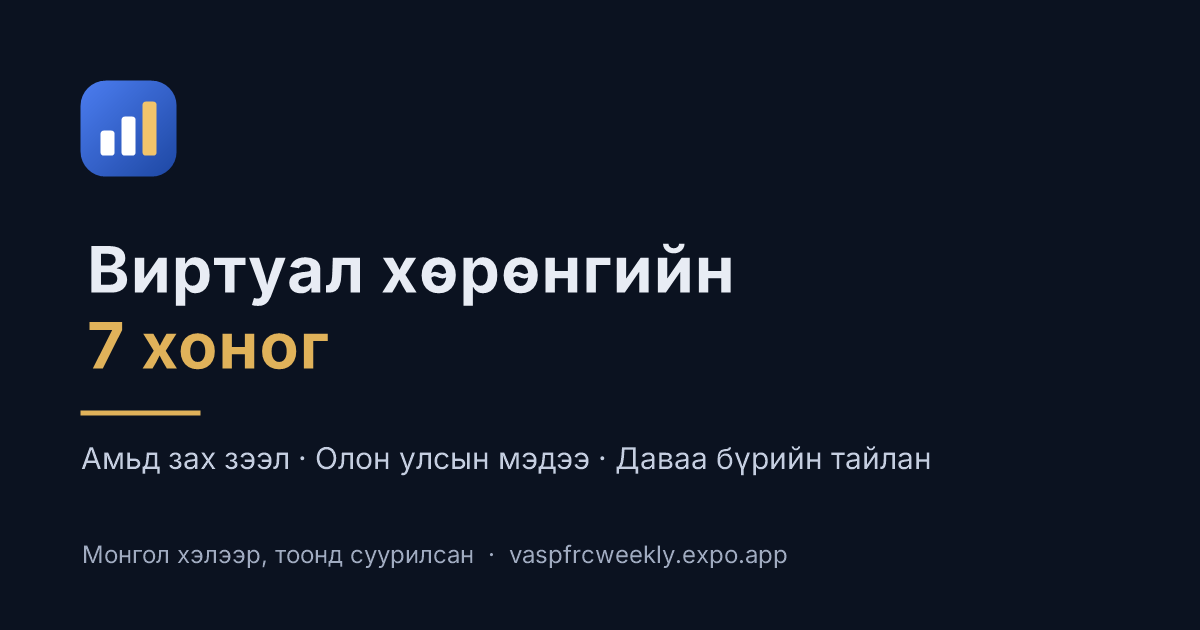
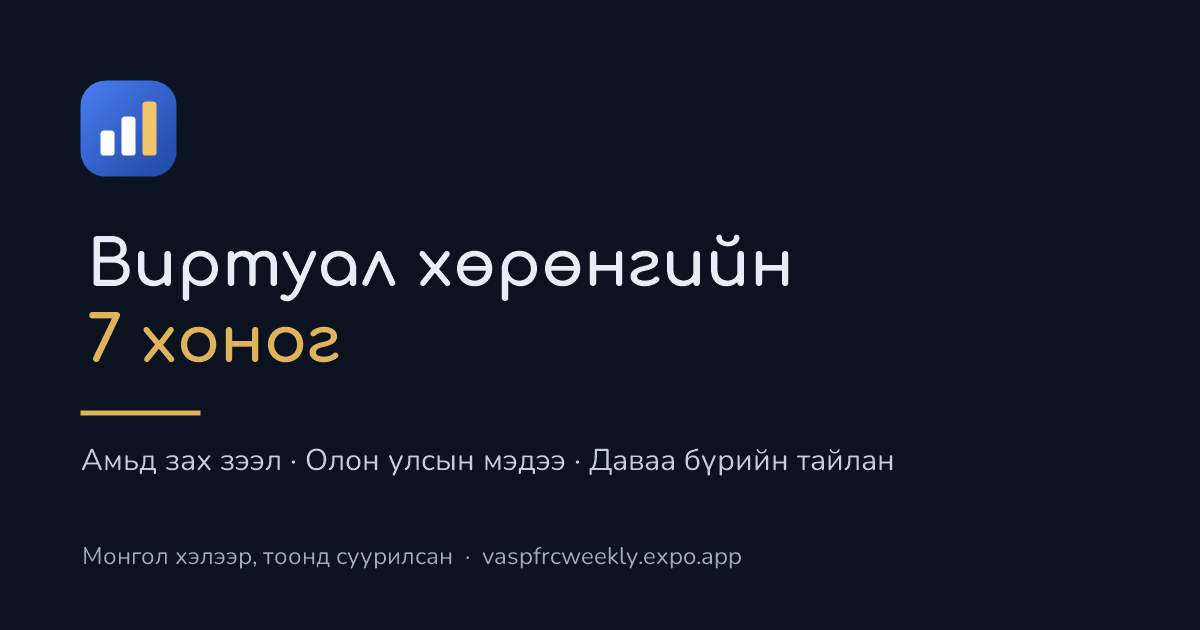
Fonts: Nunito for body, Comfortaa for headings (replace Inter)
- Nunito 400/600/700/800: body text, menu, buttons, numbers (KPI uses 800)
- Comfortaa 400/600/700: hero, h1-h3, logo/department name, research stats
- @expo-google-fonts TTFs are full fonts: latin, cyrillic and cyrillic-ext
  (Ө ө Ү ү) all present (checked)
- Still loaded after hydration via loadAsync, now with display: swap so
  first-time visitors actually see the fonts
- og.png regenerated with the new fonts; @expo-google-fonts/inter removed
- PROGRESS D59

Changed region(s): [[0.0617, 0.3619, 0.6783, 0.6032], [0.0617, 0.6937, 0.7708, 0.754], [0.0617, 0.8746, 0.6475, 0.9048]]

diff --git a/src/theme/tokens.ts b/src/theme/tokens.ts
@@ -141,38 +141,46 @@ export const radius = { sm: 4, md: 8, lg: 12, pill: 999 } as const;
 export const maxWidth = 1200;
 export const breakpoints = { tablet: 600, desktop: 1024 } as const;
 
-const webStack = (face: string) =>
-  `"${face}", "Inter", system-ui, -apple-system, "Segoe UI", Roboto, sans-serif`;
+const webStack = (face: string) => `"${face}", system-ui, -apple-system, "Segoe UI", Roboto, sans-serif`;
+const face = (name: string) => Platform.select({ web: webStack(name), default: name });
 
-/** Inter 400/500/600/700 (`@expo-google-fonts/inter`). Вэбд fallback stack-тай. */
+/**
+ * Google Fonts (SIL OFL, PROGRESS D59): Nunito — үндсэн текст, цэс, товч, тоо (400/600/700/800);
+ * Comfortaa — гарчиг ба лого (400/600/700). `@expo-google-fonts/*` нь бүтэн TTF тул latin, cyrillic,
+ * cyrillic-ext (Ө ө Ү ү) бүгд орсон.
+ */
 export const fonts = {
-  regular: Platform.select({ web: webStack('Inter_400Regular'), default: 'Inter_400Regular' }),
-  medium: Platform.select({ web: webStack('Inter_500Medium'), default: 'Inter_500Medium' }),
-  semibold: Platform.select({ web: webStack('Inter_600SemiBold'), default: 'Inter_600SemiBold' }),
-  bold: Platform.select({ web: webStack('Inter_700Bold'), default: 'Inter_700Bold' }),
+  regular: face('Nunito_400Regular'),
+  medium: face('Nunito_600SemiBold'),
+  semibold: face('Nunito_600SemiBold'),
+  bold: face('Nunito_700Bold'),
+  extrabold: face('Nunito_800ExtraBold'),
+  displayRegular: face('Comfortaa_400Regular'),
+  displaySemibold: face('Comfortaa_600SemiBold'),
+  displayBold: face('Comfortaa_700Bold'),
 } as const;
 
 export const type = {
-  heroLg: { fontFamily: fonts.bold, fontSize: 54, lineHeight: 60, letterSpacing: -1.4 },
-  hero: { fontFamily: fonts.bold, fontSize: 34, lineHeight: 40, letterSpacing: -0.8 },
-  display: { fontFamily: fonts.bold, fontSize: 40, lineHeight: 46, letterSpacing: -0.8 },
-  h1: { fontFamily: fonts.bold, fontSize: 30, lineHeight: 36, letterSpacing: -0.5 },
-  h2: { fontFamily: fonts.semibold, fontSize: 22, lineHeight: 28, letterSpacing: -0.3 },
-  h3: { fontFamily: fonts.semibold, fontSize: 17, lineHeight: 24 },
+  heroLg: { fontFamily: fonts.displayBold, fontSize: 52, lineHeight: 62, letterSpacing: -1 },
+  hero: { fontFamily: fonts.displayBold, fontSize: 32, lineHeight: 40, letterSpacing: -0.5 },
+  display: { fontFamily: fonts.displayBold, fontSize: 38, lineHeight: 46, letterSpacing: -0.5 },
+  h1: { fontFamily: fonts.displayBold, fontSize: 28, lineHeight: 36, letterSpacing: -0.3 },
+  h2: { fontFamily: fonts.displayBold, fontSize: 21, lineHeight: 28, letterSpacing: -0.2 },
+  h3: { fontFamily: fonts.displayBold, fontSize: 17, lineHeight: 24 },
   lead: { fontFamily: fonts.regular, fontSize: 18, lineHeight: 28 },
   body: { fontFamily: fonts.regular, fontSize: 16, lineHeight: 25 },
-  bodyStrong: { fontFamily: fonts.semibold, fontSize: 16, lineHeight: 25 },
+  bodyStrong: { fontFamily: fonts.bold, fontSize: 16, lineHeight: 25 },
   small: { fontFamily: fonts.regular, fontSize: 14, lineHeight: 20 },
-  smallStrong: { fontFamily: fonts.medium, fontSize: 14, lineHeight: 20 },
+  smallStrong: { fontFamily: fonts.semibold, fontSize: 14, lineHeight: 20 },
   caption: { fontFamily: fonts.regular, fontSize: 12, lineHeight: 17 },
   label: {
-    fontFamily: fonts.semibold,
+    fontFamily: fonts.bold,
     fontSize: 12,
     lineHeight: 16,
     letterSpacing: 1,
     textTransform: 'uppercase' as const,
   },
-  kpi: { fontFamily: fonts.bold, fontSize: 26, lineHeight: 32, letterSpacing: -0.5 },
+  kpi: { fontFamily: fonts.extrabold, fontSize: 26, lineHeight: 32, letterSpacing: -0.3 },
 } as const;
 
 export type TypeVariant = keyof typeof type;

diff --git a/src/app/_layout.tsx b/src/app/_layout.tsx
@@ -1,4 +1,5 @@
-import { Inter_400Regular, Inter_500Medium, Inter_600SemiBold, Inter_700Bold } from '@expo-google-fonts/inter';
+import { Comfortaa_400Regular, Comfortaa_600SemiBold, Comfortaa_700Bold } from '@expo-google-fonts/comfortaa';
+import { Nunito_400Regular, Nunito_600SemiBold, Nunito_700Bold, Nunito_800ExtraBold } from '@expo-google-fonts/nunito';
 import { QueryClient, QueryClientProvider } from '@tanstack/react-query';
 import { FontDisplay, loadAsync } from 'expo-font';
 import { Slot } from 'expo-router';
@@ -9,22 +10,24 @@ import { Footer } from '@/components/layout/footer';
 import { Header } from '@/components/layout/header';
 import { useTheme } from '@/theme/use-theme';
 
-// Фонтыг hydration-ий дараа ачаална (PROGRESS D50):
-// - `useFonts` нь статик HTML-д 4 TTF-ийн preload (≈630 KB) оруулж, Chrome preload + `optional` фонтыг
-//   хүлээж анхны дүрслэлийг хаадаг байсан (Lighthouse FCP 4.2с).
-// - `optional`: тухайн ачаалалд фонт бэлэн биш бол fallback stack (tokens.fonts) үлдэнэ — текст дахин
-//   урсахгүй (CLS); дараагийн хуудсанд кэшээс Inter.
-const optional = (uri: number) => ({ uri, display: FontDisplay.OPTIONAL });
-const INTER = {
-  Inter_400Regular: optional(Inter_400Regular),
-  Inter_500Medium: optional(Inter_500Medium),
-  Inter_600SemiBold: optional(Inter_600SemiBold),
-  Inter_700Bold: optional(Inter_700Bold),
+// Фонтыг hydration-ий дараа ачаална (PROGRESS D50, D59):
+// - `useFonts` нь статик HTML-д TTF preload оруулж анхны дүрслэлийг хаадаг байсан (Lighthouse FCP 4.2с).
+// - `swap`: эхлээд систем фонт, Nunito/Comfortaa ирмэгц солигдоно. `optional` үед анхны айлчлалд
+//   фонт бараг харагддаггүй байсан. Мөрийн өндөр бүгд `lineHeight`-ээр тогтсон тул шилжилт бага.
+const swap = (uri: number) => ({ uri, display: FontDisplay.SWAP });
+const FONTS = {
+  Nunito_400Regular: swap(Nunito_400Regular),
+  Nunito_600SemiBold: swap(Nunito_600SemiBold),
+  Nunito_700Bold: swap(Nunito_700Bold),
+  Nunito_800ExtraBold: swap(Nunito_800ExtraBold),
+  Comfortaa_400Regular: swap(Comfortaa_400Regular),
+  Comfortaa_600SemiBold: swap(Comfortaa_600SemiBold),
+  Comfortaa_700Bold: swap(Comfortaa_700Bold),
 };
 
 export default function RootLayout() {
   useEffect(() => {
-    loadAsync(INTER).catch(() => {});
+    loadAsync(FONTS).catch(() => {});
   }, []);
   const [queryClient] = useState(() => new QueryClient());
   const { c } = useTheme();

diff --git a/src/components/layout/header.tsx b/src/components/layout/header.tsx
@@ -23,10 +23,10 @@ export function BrandLockup({ compact }: { compact?: boolean }) {
     <View style={{ flexDirection: 'row', alignItems: 'center', gap: space.md, flexShrink: 1 }}>
       <BrandMark size={compact ? 38 : 42} />
       <View style={{ flexShrink: 1 }}>
-        <T style={{ fontFamily: fonts.bold, fontSize: compact ? 13 : 14, lineHeight: compact ? 16 : 18, color: c.text }}>
+        <T style={{ fontFamily: fonts.displayBold, fontSize: compact ? 13 : 14, lineHeight: compact ? 17 : 19, color: c.text }}>
           {t.site.org}
         </T>
-        <T style={{ fontFamily: fonts.semibold, fontSize: 13, lineHeight: 17, color: c.accent, marginTop: 2 }}>
+        <T style={{ fontFamily: fonts.bold, fontSize: 13, lineHeight: 17, color: c.accent, marginTop: 2 }}>
           {t.site.edition}
         </T>
       </View>

diff --git a/src/app/index.tsx b/src/app/index.tsx
@@ -79,7 +79,7 @@ function ResearchTeaser({ examples, dataSources }: { examples: number; dataSourc
       <View style={{ flexDirection: 'row', flexWrap: 'wrap', gap: space.xxl }}>
         {stats.map(([n, label]) => (
           <View key={label}>
-            <T num style={{ fontFamily: fonts.bold, fontSize: 44, lineHeight: 48, letterSpacing: -1, color: c.brandText }}>
+            <T num style={{ fontFamily: fonts.displayBold, fontSize: 44, lineHeight: 50, letterSpacing: -0.5, color: c.brandText }}>
               {n}
             </T>
             <T v="small" color="textMuted">

diff --git a/src/components/report/infographic.tsx b/src/components/report/infographic.tsx
@@ -37,7 +37,7 @@ function useInk(variant: InfographicVariant) {
   return { c, txt, dirColor };
 }
 
-/** 984px өргөнд Inter Bold-ийн кирилл үсэг ≈0.56em — 2 мөрт багтах хамгийн том хэмжээ. */
+/** 984px өргөнд Nunito Bold-ийн кирилл үсэг ≈0.56em — 2 мөрт багтах хамгийн том хэмжээ. */
 export function headlineFontSize(chars: number): number {
   if (chars <= 72) return 44;
   if (chars <= 92) return 38;

diff --git a/docs/PROGRESS.md b/docs/PROGRESS.md
@@ -96,6 +96,7 @@
 | D56 | Нүүрний KPI мобайлд 2 баганатай. Тоо ба нэгжийг салгаж, 24px-ээр харуулна (2 баганат картад багтаахын тулд). |
 | D57 | **Paint-first:** `expo export`-ийн дараа `scripts/paint-first.ts` нь `<script defer>`-ийг жижиг loader-оор солино. Loader нь `first-contentful-paint` ажиглагдсаны дараа ижил скриптүүдийг `async=false`-оор ижил дарааллаар оруулна. Fallback: rAF + 400ms ба 2.5 сек. `<head>`-ийн preload хэвээр тул татан авалт эрт эхэлнэ. `build-web` action ба `export:web`-д `fix-static-index`-ээс өмнө ажиллана. Hero-ийн торон `repeating-linear-gradient`-ийг хассан (анхны frame ≈60ms). `content-visibility: auto`-г туршсан: хурдад ялгаагүй, судалгааны хуудсанд axe target-size алдаа (A11y 96) өгсөн тул хэрэглээгүй. |
 | D58 | `useTheme`/`useLayout`/`useHydrated` нь `useSyncExternalStore` ашиглана. Server snapshot нь `'light'`, `'mobile'`, `false`. Hydration-д статик HTML-тэй ижил утга өгч, клиентийн утга өөр үед л дахин render хийнэ. Клиент навигацид шинэ бүрэлдэхүүн шууд зөв горим/өргөнөөр зурагдана (өмнө нь мобайл/цайвар → шилжилт). `Layout`-аас `width`-ийг хассан (хэрэглэгддэггүй байсан). |
+| D59 | Фонт: Inter → **Nunito** (үндсэн текст, цэс, товч, тоо; 400/600/700/800) ба **Comfortaa** (гарчиг h1–h3, hero, лого; 400/600/700), хэрэглэгчийн шийдвэр. `@expo-google-fonts/*`-ийн TTF нь бүтэн тул latin, cyrillic, cyrillic-ext (Ө ө Ү ү) бүгд байгааг GlyphTypeface-ээр шалгасан. Hydration-ий дараа `loadAsync`-оор ачаална (D50), харин `display: swap` — `optional` үед анхны айлчлалд фонт бараг харагдахгүй. Инфографик Nunito-гоор (2 мөрийн гарчгийн тооцоо). og/favicon-ийг шинэ фонтоор дахин үүсгэсэн. |
 
 ## 2026.10.21 — Үе шат 6: QA ба баримт
 
@@ -473,7 +474,7 @@ Template-ээс ирсэн (Expo SDK 58): expo, expo-router, react 19.3, react-n
 | `@tanstack/react-query` | app | Амьд датаг 10 мин тутам дахин уншиж кэшлэх (SPEC §3) |
 | `zod` 4 | app+scripts | Схем шалгалт, апп ба скрипт хуваалцана (SPEC §3) |
 | `react-native-svg` | app | Хөнгөн графикууд (SPEC §3) |
-| `@expo-google-fonts/inter` | app | Кирилл үсэгтэй Inter фонт (SPEC §3) |
+| `@expo-google-fonts/nunito`, `@expo-google-fonts/comfortaa` | app | Nunito (текст) ба Comfortaa (гарчиг) — SIL OFL, бүтэн TTF (кирилл + Ө Ү). Inter-ийг сольсон (D59) |
 | `vitest` | dev | Тест (SPEC §3) |
 | `tsx` | dev | Скрипт ажиллуулах (SPEC §3) |
 | `prettier` | dev | Формат (SPEC §3) |
